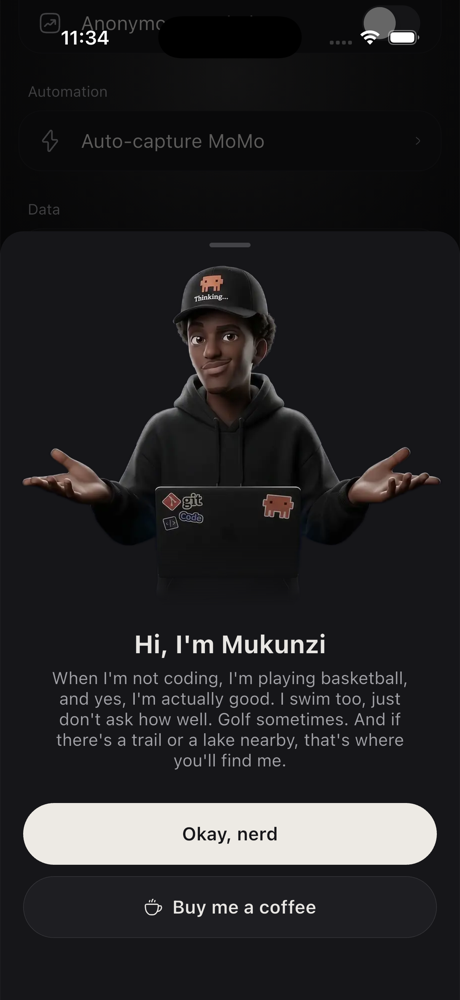
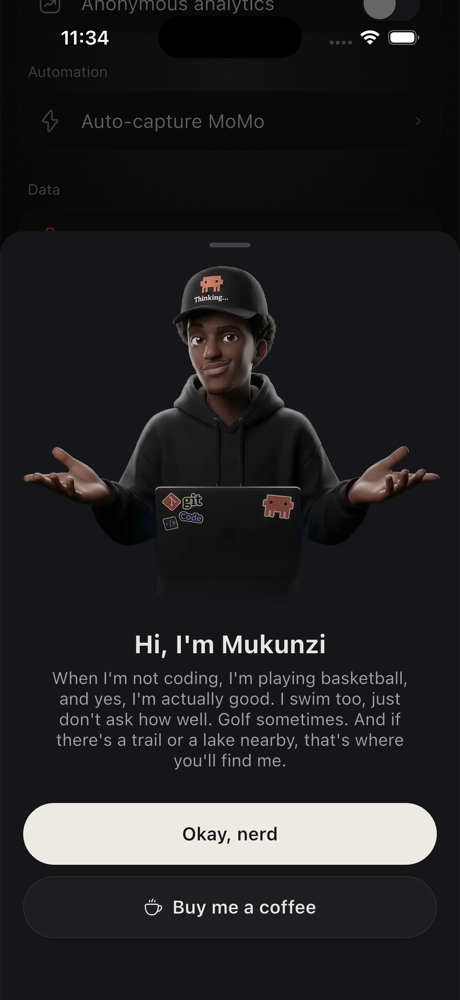
docs: rewrite developer bio and refresh about screenshot

diff --git a/README.md b/README.md
@@ -61,7 +61,7 @@ Set up a Shortcut and an automation once. After that, when an MTN MoMo SMS arriv
 
 ## About the developer
 
-Genga is built by Mukunzi. The app has a small about sheet in settings, if you want to say hi or buy a coffee.
+Claude couldn't generate my tone so here: I live in Kigali, Rwanda. I genuinely enjoy building things, I care about pixel-perfect design, but I'm now leaning toward performance optimization. Other than that, I'm playing basketball (if you're reading this, there's a high chance you can't guard me), swimming, and golf sometimes. Most of all, Jesus is genuinely holding my life together.
 
 <p align="center">
   <img src="docs/screenshots/about.png" width="28%" alt="About the developer" />
